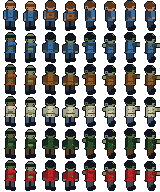
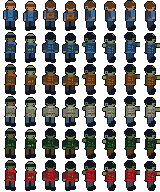
Poprawki czytelności: paletowe przygaszanie, sprite'y bez czarnych ramek
- PixelBuffer wypełnia się przezroczystością (usuwa czarne obwódki wokół obiektów)
- ciemność jako 4 tablice przemapowania indeksów zamiast rastrowej szachownicy
- zombie: wariant koszuli czytelny, fałdy materiału, błysk oczu w ciemności
- ciemniejsze czapki ścian, mniej szumu na asfalcie i chodniku
- spójny cel gry: 48 h (08:00 dnia 1 -> 08:00 dnia 3)
- priorytety interakcji: przedmiot pod stopami, drzwi, pojemnik, okno, łóżko
- testy rozszerzone do 93 asercji, wszystkie przechodzą
- zrzuty ekranu i atlasy IFF/AMB odświeżone

diff --git a/src/art.js b/src/art.js
@@ -38,26 +38,6 @@ function outlined(pb, color = C.OUTLINE) {
   return out;
 }
 
-function paintMasked(pb, mask, x, y, w, h, color, chance = 1, rng = Math.random) {
-  const rand = typeof rng === 'function' ? rng : () => rng.next();
-  for (let yy = y; yy < y + h; yy++) {
-    for (let xx = x; xx < x + w; xx++) {
-      if (xx < 0 || yy < 0 || xx >= pb.w || yy >= pb.h) continue;
-      if (rand() > chance) continue;
-      if (mask.get(xx, yy) !== TRANSPARENT) pb.set(xx, yy, color);
-    }
-  }
-}
-
-function fillRows(pb, yStart, yEnd, colorFn) {
-  for (let y = yStart; y < yEnd; y++) {
-    for (let x = 0; x < pb.w; x++) {
-      const c = colorFn(x, y);
-      if (c !== TRANSPARENT) pb.set(x, y, c);
-    }
-  }
-}
-
 // ---------------------------------------------------------------------------
 // PODŁOGI / TEREN
 // ---------------------------------------------------------------------------
@@ -226,9 +206,9 @@ function makeWall(material, feature = null) {
   const H = WALL_H;
   const pb = new PixelBuffer(32, H + 16);
   const style = {
-    brick: { left: C.BLOOD_DARK, right: C.BLOOD, light: C.BLOOD_BRIGHT, cap: C.SLATE_DARK, capHi: C.SLATE, mortar: C.OUTLINE },
-    concrete: { left: C.ASPHALT, right: C.CONCRETE, light: C.BONE, cap: C.SLATE_DARK, capHi: C.STEEL, mortar: C.ASPHALT_DARK },
-    wood: { left: C.WOOD_DARK, right: C.WOOD, light: C.WOOD_LIGHT, cap: C.SLATE_DARK, capHi: C.SLATE, mortar: C.OUTLINE },
+    brick: { left: C.BLOOD_DARK, right: C.BLOOD, light: C.BLOOD_BRIGHT, cap: C.BLOOD_DARK, capHi: C.BLOOD, mortar: C.OUTLINE },
+    concrete: { left: C.ASPHALT, right: C.CONCRETE, light: C.BONE, cap: C.ASPHALT_DARK, capHi: C.ASPHALT, mortar: C.ASPHALT_DARK },
+    wood: { left: C.WOOD_DARK, right: C.WOOD, light: C.WOOD_LIGHT, cap: C.WOOD_DARK, capHi: C.WOOD, mortar: C.OUTLINE },
   }[material] || { left: C.SLATE_DARK, right: C.SLATE, light: C.STEEL, cap: C.SHADOW, capHi: C.SLATE_DARK, mortar: C.OUTLINE };
 
   // górna płaszczyzna (cienki "dach" muru)
@@ -1041,6 +1021,11 @@ function makeCharacter(opts) {
   }
 
   if (zombie) {
+    // fałdy materiału i brud
+    for (let y = 12; y <= 19; y += 3) {
+      pb.hline(cx - 3, cx + 3, y + bob, shirtShade);
+    }
+    pb.vline(cx + 1, 12 + bob, 18 + bob, shirtShade);
     // rozdarć ubrania i krwi
     pb.set(cx - 2, 13 + bob, skinShade);
     pb.set(cx + 2, 15 + bob, skin);
@@ -1330,7 +1315,7 @@ export function buildArt() {
   const zombiePalettes = [
     { shirt: C.BLUE, shirtShade: C.SLATE_DARK, pants: C.SLATE_DARK },
     { shirt: C.WOOD, shirtShade: C.WOOD_DARK, pants: C.ASPHALT_DARK },
-    { shirt: C.BONE, shirtShade: C.CONCRETE, pants: C.SLATE },
+    { shirt: C.CONCRETE, shirtShade: C.CONCRETE_DARK, pants: C.SLATE },
     { shirt: C.GRASS_DARK, shirtShade: C.GREEN_DARK, pants: C.WOOD_DARK },
     { shirt: C.BLOOD, shirtShade: C.BLOOD_DARK, pants: C.ASPHALT },
   ];

diff --git a/src/ui.js b/src/ui.js
@@ -321,12 +321,12 @@ export function drawAbout(game) {
   scr.panel(8, 6, 304, 188, { fill: C.SHADOW, border: C.SLATE, inner: C.OUTLINE });
   txt(scr, 'O PROJEKCIE', 160, 13, C.YELLOW, { scale: 2, align: 'center' });
   const paragraphs = [
-    'AMBOID to fanowski hołd dla PROJECT ZOMBOID przeniesiony w realia AMIGI. Izometryczne miasteczko, zombie, głód, ciemność i deski na oknach.',
-    'Cała grafika powstaje proceduralnie w 32-kolorowej palecie. Rozdzielczość logiczna to 320x200. Dźwięki są syntezowane na żywo.',
-    'Wersja docelowa: AMIGA 500/1200 — procesor 68000, OCS/ECS, 512 KB RAM, jedna dyskietka. Ten prototyp działa w przeglądarce.',
-    'Projekt fanowski, nieoficjalny. Stworzony dla zabawy i nauki.',
+    'AMBOID to fanowski hołd dla PROJECT ZOMBOID przeniesiony w realia AMIGI. Izometryczne miasteczko, zombie, głód i deski na oknach.',
+    'Cała grafika powstaje proceduralnie w palecie 32 kolorów. Rozdzielczość to 320x200. Dźwięki są syntezowane na żywo.',
+    'Wersja docelowa: AMIGA 500/1200 — 68000, OCS/ECS, 512 KB RAM, jedna dyskietka.',
+    'Projekt fanowski, nieoficjalny. Zrobiony dla zabawy i nauki.',
   ];
-  let y = 34;
+  let y = 33;
   for (const para of paragraphs) {
     const lines = wrapText(para, 284);
     for (const line of lines) {
@@ -335,12 +335,12 @@ export function drawAbout(game) {
     }
     y += 3;
   }
-  txt(scr, 'PALETA 32 KOLORY', 160, 148, C.SLATE, { align: 'center' });
+  txt(scr, 'PALETA 32 KOLORY', 160, 141, C.SLATE, { align: 'center' });
   for (let i = 0; i < 32; i++) {
-    scr.rect(64 + i * 6, 157, 5, 8, i);
-    scr.frame(64 + i * 6, 157, 5, 8, C.OUTLINE);
+    scr.rect(64 + i * 6, 150, 5, 8, i);
+    scr.frame(64 + i * 6, 150, 5, 8, C.OUTLINE);
   }
-  button(game, 130, 176, 60, 13, 'POWRÓT', 'back', false);
+  button(game, 130, 170, 60, 13, 'POWRÓT', 'back', false);
 }
 
 // ---------------------------------------------------------------------------

diff --git a/src/render.js b/src/render.js
@@ -1,7 +1,7 @@
 // Renderer: bufor indeksów palety -> RGBA dla canvasu.
 // Rozdzielczość logiczna 320x200 — klasyczny tryb lowres Amigi (PAL/NTSC).
 
-import { PALETTE, C, TRANSPARENT, paletteToUint32 } from './palette.js';
+import { PALETTE, C, TRANSPARENT, paletteToUint32, DIM_TABLES, DIM_DITHER } from './palette.js';
 
 export const VIEW_W = 320;
 export const VIEW_H = 200;
@@ -127,14 +127,16 @@ export class Screen {
    * opts.flash: indeks koloru — rysuje sylwetkę (np. błysk trafienia)
    */
   blit(sprite, x, y, opts = {}) {
-    const dim = opts.dim || 0;
+    const dim = Math.max(0, Math.min(4, opts.dim || 0));
     const flash = opts.flash == null ? null : opts.flash;
     const src = sprite.data;
     const sw = sprite.w;
     const sh = sprite.h;
     const ox = Math.round(x);
     const oy = Math.round(y);
-    const threshold = dim * 4;
+    const table = dim > 0 ? DIM_TABLES[dim] : null;
+    // dodatkowy dither rozbijający pasy na poziomie 2 i 3
+    const dither = dim > 0 ? (DIM_DITHER[dim] * 16) | 0 : 0;
     for (let sy = 0; sy < sh; sy++) {
       const py = oy + sy;
       if (py < 0 || py >= this.h) continue;
@@ -144,9 +146,8 @@ export class Screen {
         if (px < 0 || px >= this.w) continue;
         let c = src[sy * sw + sx];
         if (c === TRANSPARENT) continue;
-        if (dim > 0 && BAYER[(py & 3) * 4 + (px & 3)] < threshold) {
-          c = dim >= 3 ? C.OUTLINE : C.SHADOW;
-        }
+        if (table) c = table[c];
+        if (dither > 0 && BAYER[(py & 3) * 4 + (px & 3)] < dither) c = C.OUTLINE;
         if (flash != null) c = flash;
         this.data[row + px] = c;
       }

diff --git a/src/scene.js b/src/scene.js
@@ -224,9 +224,18 @@ export function renderWorld(game, world, cam, opts = {}) {
       const pal = art.chars.zombie[((z.variant % art.chars.zombie.length) + art.chars.zombie.length) % art.chars.zombie.length];
       const dirFrames = pal[((z.dir % 4) + 4) % 4];
       const spr = dirFrames[((frame % 2) + 2) % 2];
-      scr.blit(art.shadows.player, sx + 8, sy + 3, { dim });
+      scr.blit(art.shadows.player, sx + 8, sy + 3, { dim: 2 });
       const flash = !menu && z.flash > 0 ? C.WHITE : null;
       scr.blit(spr, sx + 6, sy - 23, { dim, flash });
+      if (game.ambientDim() > 0 && !menu) {
+        // w ciemności zombie mają słaby, czerwony błysk oczu — czytelność
+        const eye = Math.floor(tAnim * 2 + z.variant) % 2 === 0 ? C.BLOOD_BRIGHT : C.BLOOD;
+        const hy = sy - 18;
+        if (z.dir === 0 || z.dir === 2 || z.dir === 3) {
+          scr.set(sx + 8, hy, eye);
+          scr.set(sx + 12, hy, eye);
+        }
+      }
     });
   }
 
@@ -243,7 +252,7 @@ export function renderWorld(game, world, cam, opts = {}) {
       }
       const frame = p.moving ? Math.max(0, Math.floor(p.moveT / 0.12)) % 2 : 0;
       const spr = art.chars.player[((p.dir % 4) + 4) % 4][frame];
-      scr.blit(art.shadows.player, sx + 8, sy + 3, { dim });
+      scr.blit(art.shadows.player, sx + 8, sy + 3, { dim: 2 });
       scr.blit(spr, sx + 6, sy - 23, { dim });
     });
   }

diff --git a/src/palette.js b/src/palette.js
@@ -73,6 +73,37 @@ export const C = {
 
 export const TRANSPARENT = 255;
 
+// ---------------------------------------------------------------------------
+// "Pre-shaded" paleta — odpowiednik ciemniejszych wariantów kafli, które
+// przygotowuje się w DPaint na Amidze. Zamiast szachownicy przygaszamy kolor
+// przez przemapowanie indeksu na ciemniejszy odpowiednik z tej samej rodziny.
+//
+//   poziom 1 — zmierzch / świt (ok. 70% jasności)
+//   poziom 2 — noc (ok. 45% jasności)
+//   poziom 3 — pamięć mapy (obszar zbadany, poza zasięgiem wzroku)
+//   poziom 4 — teren niezbadany (ledwie widoczny zarys)
+const DIM1 = [
+  0, 1, 2, 3, 3, 4, 24, 6, 9, 10, 11, 2, 10, 11, 13, 14,
+  1, 16, 17, 19, 19, 20, 21, 23, 23, 25, 25, 26, 29, 19, 5, 3,
+];
+const DIM2 = [
+  0, 1, 1, 2, 2, 3, 23, 24, 10, 11, 1, 1, 11, 2, 11, 13,
+  1, 16, 16, 19, 19, 19, 20, 25, 26, 1, 25, 25, 29, 19, 4, 2,
+];
+const DIM3 = DIM2.map((c) => DIM2[c]);
+const DIM4 = DIM3.map(() => 1);
+
+export const DIM_TABLES = [
+  null,
+  Uint8Array.from(DIM1),
+  Uint8Array.from(DIM2),
+  Uint8Array.from(DIM3),
+  Uint8Array.from(DIM4),
+];
+
+// Procent pikseli dodatkowo rozbijanych ditheringiem (0 = brak).
+export const DIM_DITHER = [0, 0, 0.1, 0.18, 0.3];
+
 // Konwersja HEX -> [r,g,b]
 export function hexToRgb(hex) {
   const n = parseInt(hex.slice(1), 16);

diff --git a/src/game.js b/src/game.js
@@ -209,10 +209,9 @@ export class Game {
 
   ambientDim() {
     const hour = (this.time % MIN_PER_DAY) / 60;
-    if (hour < 5 || hour >= 22) return 2; // noc: przygaszone, ale widoczne
-    if (hour < 7 || hour >= 19) return 2;
-    if (hour < 8 || hour >= 18) return 1;
-    return 0;
+    if (hour < 5 || hour >= 22) return 2; // noc
+    if (hour < 8 || hour >= 18) return 1; // świt / zmierzch
+    return 0; // dzień
   }
 
   fovRadius() {
@@ -235,7 +234,7 @@ export class Game {
 
   // Poziom przyciemnienia kafla: 0 = jasno, 4 = czerń. Pamięć mapy = 3.
   tileDim(x, y, vis) {
-    if (!vis) return 2; // pamięć mapy
+    if (!vis) return 3; // pamięć mapy
     const amb = this.ambientDim();
     if (amb === 0) {
       // miękka winieta na skraju zasięgu wzroku

diff --git a/docs/AMIGA.md b/docs/AMIGA.md
@@ -96,11 +96,32 @@ przesunięcia poziomego** (0–15 px) albo rysujemy tylko na siatce 16 px
 i przesuwamy o pełne kafle. Rekomendacja: 8 kopii co 2 px dla postaci
 (koszt pamięci ×8, ale postacie są małe).
 
-### 4.2 Ciemność i dither
-Nie obliczamy ciemności w czasie rzeczywistym. Każdy kafel podłogi ma
-**3 warianty przygaszenia** (0, 1, 2) prefiltrowane w DPaint: oryginał,
-wersja z dither 25% i wersja z dither 50% ciemnym kolorem. Koszt pamięci
-×3, koszt CPU zerowy. To dokładnie to, co robi prototyp w `Screen.blit({dim})`.
+### 4.2 Ciemność: tablice przygaszenia (nie dither!)
+
+Pierwsza wersja prototypu przygaszała świat ditheringiem Bayera (szachownicą
+czarnego). Efekt na jasnych kaflach (chodnik, beton) był brudny i przypominał
+plamy — dokładnie ten sam problem, który pojawia się, gdy w DPaint zamiast
+ciemniejszej palety użyje się rastra.
+
+Rozwiązanie jest paletowe: **cztery tablice przemapowania indeksów**
+(`DIM_TABLES` w `src/palette.js`). Każdy indeks ma swój ciemniejszy odpowiednik
+z tej samej rodziny barw:
+
+| Kolor | Dzień | Zmierzch (1) | Noc (2) | Pamięć (3) |
+| --- | --- | --- | --- | --- |
+| trawa `21` | 21 | 20 | 19 | 19 |
+| chodnik `23` | 23 | 23 | 25 | 1 |
+| beton `24` | 24 | 23 | 26 | 1 |
+| cegła `17` | 17 | 17 | 16 | 1 |
+| niebo-szyba `31` | 31 | 3 | 2 | 2 |
+
+Na Amidze to **zero kosztu CPU**: cztery wskaźniki do tablic 32 bajtów
+i jeden `move.b (a0,d0),d1` na piksel. Dither (12–30% pikseli) stosujemy tylko
+jako dodatek na dwóch najciemniejszych poziomach, żeby rozbić pasy — nigdy
+na jasnych kaflach w dzień.
+
+Do tego dochodzą **pre-shaded tilesety**: jeśli zabraknie cykli, tablice można
+zastąpić trzema gotowymi wariantami kafli w DPaint (×3 pamięci, 0 cykli).
 
 ### 4.3 Cięcie ścian
 Prototyp wykrywa ściany „od strony kamery" i rysuje je jako płaskie posadzki

diff --git a/docs/GDD.md b/docs/GDD.md
@@ -225,7 +225,8 @@ Ziarno pozwala powtórzyć dokładnie to samo miasteczko.
   4 kolory krwi, 4 skóry, 4 neutralne, żółty UI, niebieski woda.
 - **Font:** 5×7 px, ręcznie rysowany, z polskimi diakrytykami (glif bazowy +
   kropka/kreska/ogonek). Skala 1× i 2×.
-- **Dither:** matryca Bayera 4×4 do cieni (3 poziomy przygaszenia).
+- **Ciemność:** 4 tablice przemapowania indeksów (dzień / zmierzch / noc / pamięć) +
+  lekki dither Bayera 4×4 na najciemniejszych poziomach, żeby rozbić pasy.
 - **Dźwięk:** WebAudio, fale square/sawtooth/triangle + szum:
   kroki, ciosy, strzał, jęki zombie, drzwi, deski, jedzenie, śmierć, fanfara.
   Tło: wiatr (filtrowany szum) i deszcz (highpass).

diff --git a/README.md b/README.md
@@ -91,7 +91,7 @@ pliku PNG używanego przez grę ani pliku audio. Paleta jest zamknięta na 32 ko
 | Paleta | 5 bitplanów = 32 kolory | stała tablica 32 kolorów |
 | Izometria | 32×16 kafli | te same proporcje 2:1 |
 | Cień / mgła | dither Bayera 4×4 | matryca Bayera w rendererze |
-| Światło | przygaszanie kolorów | indeksy „ciemnych" odpowiedników + dither |
+| Światło | pre-shaded paleta | 4 tablice przemapowania indeksów + dither |
 | Dźwięk | Paula, 4 kanały | WebAudio, fale kwadratowe i szum |
 | Grafika | DPaint | atlas IFF ILBM (5 bitplanów) w `docs/amiga/` |
 
